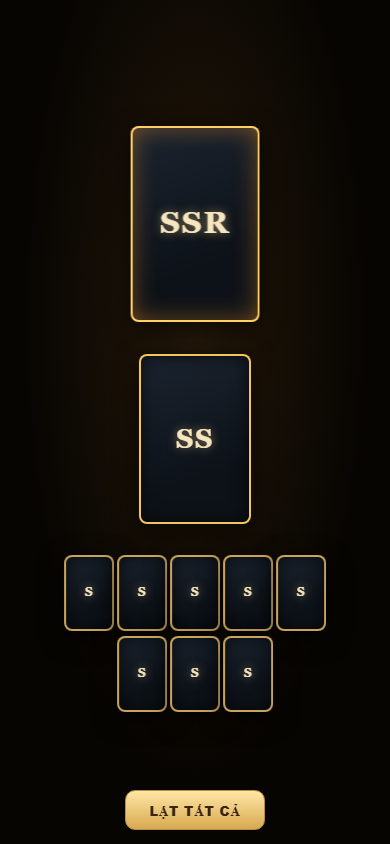
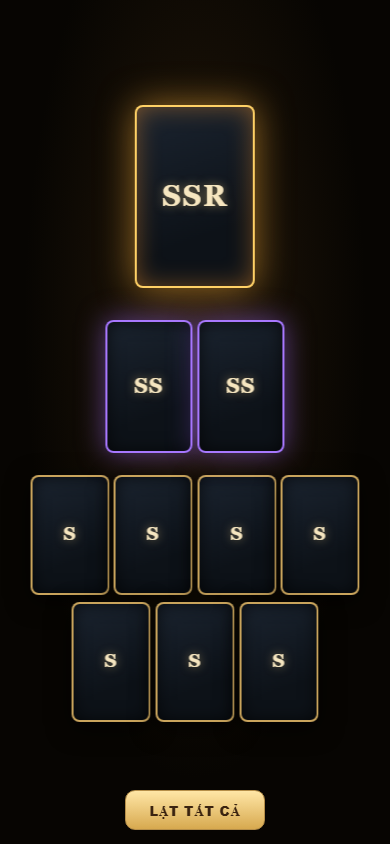
feat(summon): the lat noi vao man chi tiet tuong, dung art cua man role

Changed region(s): [[0.0615, 0.0924, 0.9231, 0.8626], [0.4, 0.2156, 0.5846, 0.2773]]

diff --git a/src/ui/summon-reveal.css b/src/ui/summon-reveal.css
@@ -17,14 +17,20 @@
 #hvSumReveal .hsr-back b{font-family:Georgia,serif;font-weight:900;font-size:clamp(9px,24cqw,32px);line-height:1;color:#f6e6c0;letter-spacing:.06em;text-shadow:0 0 10px rgba(255,220,140,.5)}
 #hvSumReveal .r-p .hsr-back{box-shadow:inset 0 0 0 2px #f2c65c,inset 0 0 18px rgba(0,0,0,.8)}
 #hvSumReveal .r-g .hsr-back{box-shadow:inset 0 0 0 2px #ffd166,inset 0 0 26px rgba(255,150,40,.45)}
-#hvSumReveal .hsr-front{transform:rotateY(180deg);flex-direction:column;background:linear-gradient(180deg,#fdf8ec,#efe0c2)}
-#hvSumReveal .hsr-front img{position:relative;z-index:2;width:100%;height:76%;object-fit:cover;object-position:50% 18%}
-#hvSumReveal .hsr-mono{position:absolute;top:0;left:0;right:0;height:76%;display:flex;align-items:center;justify-content:center;font-family:Georgia,serif;font-weight:900;font-size:clamp(16px,34cqw,52px);line-height:1;color:rgba(96,60,18,.5);letter-spacing:.04em;background:radial-gradient(ellipse at 50% 30%,rgba(255,250,235,.95),rgba(226,205,164,.9) 62%,rgba(198,170,120,.95))}
-#hvSumReveal .r-p .hsr-mono{background:radial-gradient(ellipse at 50% 30%,rgba(255,248,225,.97),rgba(232,206,150,.92) 62%,rgba(201,168,105,.95))}
-#hvSumReveal .r-g .hsr-mono{background:radial-gradient(ellipse at 50% 30%,rgba(255,240,205,.98),rgba(240,204,140,.94) 60%,rgba(206,164,96,.96))}
-#hvSumReveal .hsr-name{position:absolute;z-index:3;left:5%;right:5%;bottom:4%;font-family:inherit;font-weight:800;font-size:clamp(6px,8cqw,12px);line-height:1.15;color:#3d2410;text-align:center;max-height:32%;
+#hvSumReveal .hsr-front{transform:rotateY(180deg);flex-direction:column;background:linear-gradient(180deg,#1a1408,#0d0a05);box-shadow:inset 0 0 0 2px #8a6a33}
+#hvSumReveal .r-p .hsr-front{box-shadow:inset 0 0 0 2px #a878ff,0 0 18px rgba(150,100,255,.45)}
+#hvSumReveal .r-p .hsr-rk{background:rgba(92,52,160,.92)}
+#hvSumReveal .r-w .hsr-front{box-shadow:inset 0 0 0 2px #9fb0cc}
+#hvSumReveal .r-w .hsr-rk{background:rgba(48,66,102,.9)}
+#hvSumReveal .r-g .hsr-front{box-shadow:inset 0 0 0 2px #ffd166,0 0 26px rgba(255,170,50,.55)}
+#hvSumReveal .hsr-slot.lit.r-g .hsr-card{filter:drop-shadow(0 0 18px rgba(255,180,60,.55))}
+#hvSumReveal .hsr-slot.lit.r-p .hsr-card{filter:drop-shadow(0 0 14px rgba(160,105,255,.5))}
+#hvSumReveal .r-p .hsr-back{box-shadow:inset 0 0 0 2px #a878ff,inset 0 0 18px rgba(0,0,0,.8)}
+#hvSumReveal .hsr-front img{position:relative;z-index:2;width:100%;height:80%;object-fit:cover;object-position:50% 10%;transform:scale(1.45);transform-origin:50% 12%;image-rendering:auto}
+#hvSumReveal .hsr-mono{position:absolute;top:0;left:0;right:0;height:76%;display:flex;align-items:center;justify-content:center;font-family:Georgia,serif;font-weight:900;font-size:clamp(16px,34cqw,52px);line-height:1;color:rgba(255,255,255,.92);letter-spacing:.04em;background:var(--mono-col,#6e573d);text-shadow:0 2px 10px rgba(0,0,0,.35)}
+#hvSumReveal .hsr-name{position:absolute;z-index:3;left:5%;right:5%;bottom:4%;font-family:inherit;font-weight:800;font-size:clamp(7px,9cqw,13px);line-height:1.15;color:#3d2410;text-align:center;max-height:32%;
   background:linear-gradient(180deg,#fff8e6,#ead6ab);border-radius:4px;padding:1px 2px;display:-webkit-box;-webkit-line-clamp:2;-webkit-box-orient:vertical;overflow:hidden;word-break:break-word}
-#hvSumReveal .hsr-rk{position:absolute;z-index:4;top:3%;left:5%;font-family:Georgia,serif;font-weight:900;font-size:clamp(6px,6.5cqw,11px);line-height:1;color:#fff;
+#hvSumReveal .hsr-rk{position:absolute;z-index:4;top:3%;left:5%;font-family:Georgia,serif;font-weight:900;font-size:clamp(7.5px,7.5cqw,12px);line-height:1;padding:2px 5px;color:#fff;
   background:rgba(120,20,10,.8);border-radius:4px;padding:1px 4px;text-decoration:none}
 #hvSumReveal .r-p .hsr-rk{background:rgba(120,70,10,.85)}
 #hvSumReveal .r-g .hsr-rk{background:rgba(160,20,10,.9)}
@@ -32,7 +38,8 @@
   min-width:140px;height:40px;border-radius:10px;border:1px solid #b58e49;
   background:linear-gradient(180deg,#ffe6a6,#d7a94f);color:#3a2310;font-weight:900;letter-spacing:.04em}
 #hvSumReveal .hsr-card{container-type:size}
-@container (max-width:110px){#hvSumReveal .hsr-name{-webkit-line-clamp:2;font-size:6px;line-height:1.05;padding:0 1px;max-height:44%}}
+@container (max-width:110px){#hvSumReveal .hsr-name{-webkit-line-clamp:2;font-size:8px;line-height:1.1;padding:1px 1px;max-height:46%}}
+@container (max-width:80px){#hvSumReveal .hsr-name{-webkit-line-clamp:1;font-size:7.5px}}
 #summonScreen.hsr-shake{animation:hsrShake .34s linear}
 @keyframes hsrShake{0%,100%{transform:none}25%{transform:translate(-3px,2px)}50%{transform:translate(3px,-2px)}75%{transform:translate(-2px,1px)}}
 @media (max-width:360px){#hvSumReveal .hsr-back b{font-size:18px}}

diff --git a/src/ui/summon-reveal.js b/src/ui/summon-reveal.js
@@ -3,9 +3,9 @@
 (() => {
   if (typeof document === 'undefined') return;
   const TIERS = [
-    { cls: 'g', ys: 6, h: 31 },   // SSR - tren cung
-    { cls: 'p', ys: 40, h: 27 },  // SS
-    { cls: 'w', ys: 70, h: 24 }   // S
+    { cls: 'g', ys: 3, h: 29 },   // SSR - tren cung, to nhat
+    { cls: 'p', ys: 35, h: 21 },  // SS
+    { cls: 'w', ys: 58, h: 38 }   // S: 2 hang
   ];
   const MAP = { ssr: 'g', ss: 'p', s: 'w', a: 'w', b: 'w' };
   const LABEL = { g: 'SSR', p: 'SS', w: 'S' };
@@ -19,16 +19,35 @@
   }
 
   function portrait(id) {
-    // uu tien card art that cua tuong (CHARACTER_MANIFEST), roi avatar, roi field cu
+    // dung dung chuoi art cua man role: portraitSrc(card/master) roi characterAsset
+    try {
+      if (typeof portraitSrc === 'function') {
+        const p = portraitSrc(id, 'card') || portraitSrc(id, 'master') || portraitSrc(id, 'avatar');
+        if (p) return String(p);
+      }
+    } catch (_) {}
     try {
       if (typeof characterAsset === 'function') {
-        const card = characterAsset(id, 'card') || characterAsset(id, 'avatar') || characterAsset(id, 'icon') || characterAsset(id, 'idle');
-        if (card) return String(card);
+        const a = characterAsset(id, 'card') || characterAsset(id, 'avatar') || characterAsset(id, 'icon') || characterAsset(id, 'idle');
+        if (a) return String(a);
       }
     } catch (_) {}
     const h = (window.DATA && DATA.heroes) ? DATA.heroes[id] : null;
     const src = h && (h.img || h.portrait || h.art);
     return src ? String(src) : '';
+  }
+
+  function heroCol(id, fallback) {
+    const h = (window.DATA && DATA.heroes) ? DATA.heroes[id] : null;
+    return (h && h.col) ? String(h.col) : (fallback || '#6e573d');
+  }
+
+  function openDetail(id) {
+    try {
+      document.getElementById('hvSumReveal')?.remove();
+      if (typeof renderHeroDetail === 'function') renderHeroDetail(id);
+      if (typeof showScreen === 'function') showScreen('heroDetail');
+    } catch (_) {}
   }
 
   function play(pulls, grid) {
@@ -49,10 +68,15 @@
       el.dataset.k = k;
       el.innerHTML = `<div class="hsr-card"><div class="hsr-inner">
           <div class="hsr-face hsr-back"><b>${LABEL[k]}</b></div>
-          <div class="hsr-face hsr-front"><span class="hsr-mono">${(String(p.name || '?').trim().charAt(0) || '?').toUpperCase()}</span>${portrait(p.id) ? `<img src="${portrait(p.id)}" alt="" onerror="this.remove()">` : ''}
+          <div class="hsr-face hsr-front">${portrait(p.id)
+            ? `<img src="${portrait(p.id)}" alt="" loading="lazy" onerror="this.remove()">`
+            : `<span class="hsr-mono" style="--mono-col:${heroCol(p.id)}">${(String(p.name || '?').trim().charAt(0) || '?').toUpperCase()}</span>`}
             <i class="hsr-name" title="${(p.name || '').replace(/"/g, '&quot;')}">${shortName(p.name)}</i><u class="hsr-rk">${LABEL[k]}</u></div>
         </div></div>`;
-      el.querySelector('.hsr-card').addEventListener('click', () => flip(el));
+      el.querySelector('.hsr-card').addEventListener('click', () => {
+        // chua lat thi lat; lat roi thi mo man chi tiet tuong (man role)
+        if (el.classList.contains('flipped')) openDetail(p.id); else flip(el);
+      });
       stage.appendChild(el);
       return { el, k, i };
     });
@@ -64,7 +88,7 @@
     ['w', 'p', 'g'].forEach(k => {
       const tier = TIERS.find(t => t.cls === k);
       const list = rows[k];
-      const perRow = Math.min(list.length, 5) || 1;
+      const perRow = Math.min(list.length, 4) || 1;
       const rowCount = Math.max(1, Math.ceil(list.length / perRow));
       const rowH = tier.h / rowCount;
       list.forEach((c, idx) => {
